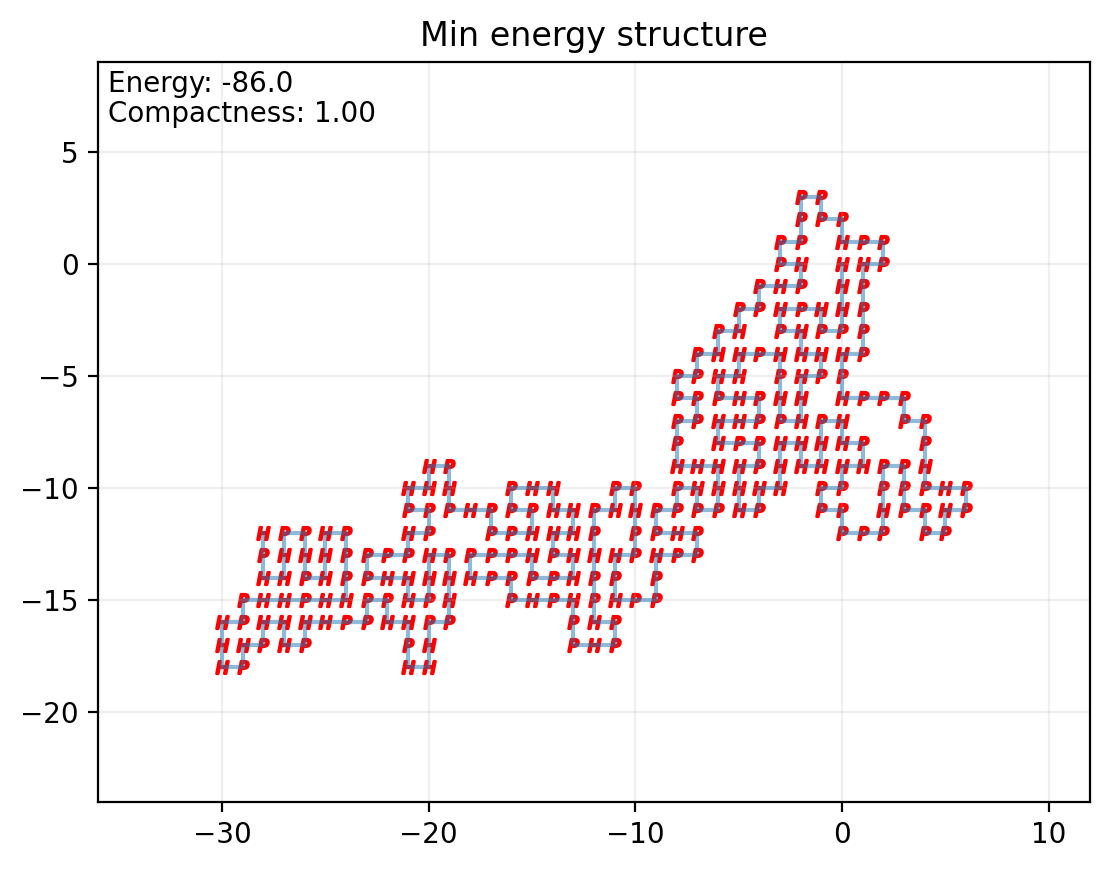
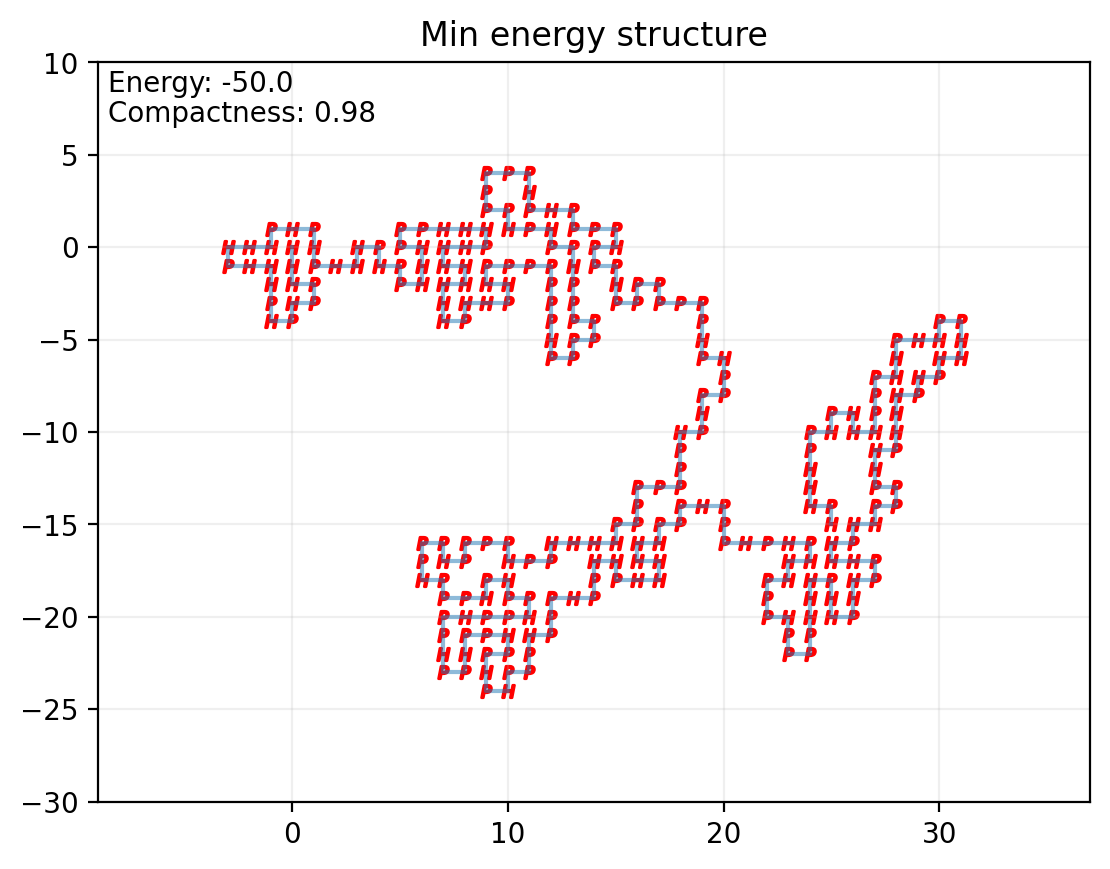
System's energy and compactness bug fixing

diff --git a/src/protein_class.py b/src/protein_class.py
@@ -131,13 +131,31 @@ class Protein:
         return prob >= random.uniform(0, 1)
 
     def get_energy(self, e: float = 1.0) -> float:
-        """Compute the total energy of the protein structure."""
-        count_hh = sum(self.get_neighbors(i).count('H') for i in range(self.sequence_length))
-        return -e * count_hh / 2
+        """
+        Calculate the total energy based on the HP model.
+        Only non-consecutive H-H (Hydrophobic) contacts contribute to lowering the system's energy.
+        """
+        count_hh = sum(
+            self.get_neighbors(i).count('H')
+            for i in range(self.sequence_length)
+            if self.sequence[i] == 'H'
+        )
+
+        # Divide by 2 because each contact (i, j) is counted twice (once for i, once for j)
+        return -e * (count_hh / 2)
 
     def get_compactness(self) -> int:
-        """Compute the compactness of the protein structure."""
-        return sum(len(self.get_neighbors(i)) for i in range(self.sequence_length))
+        """
+        Calculate compactness as the total number of unique non-covalent
+        topological contacts in the fold.
+        """
+        total_contacts = sum(
+            len(self.get_neighbors(i))
+            for i in range(self.sequence_length)
+        )
+
+        # Use integer division by 2 to get the actual number of unique contacts
+        return total_contacts // 2
 
     def get_neighbors(self, i: int) -> str:
         """Return string of H/P neighbors for the i-th monomer (excluding backbone)."""
